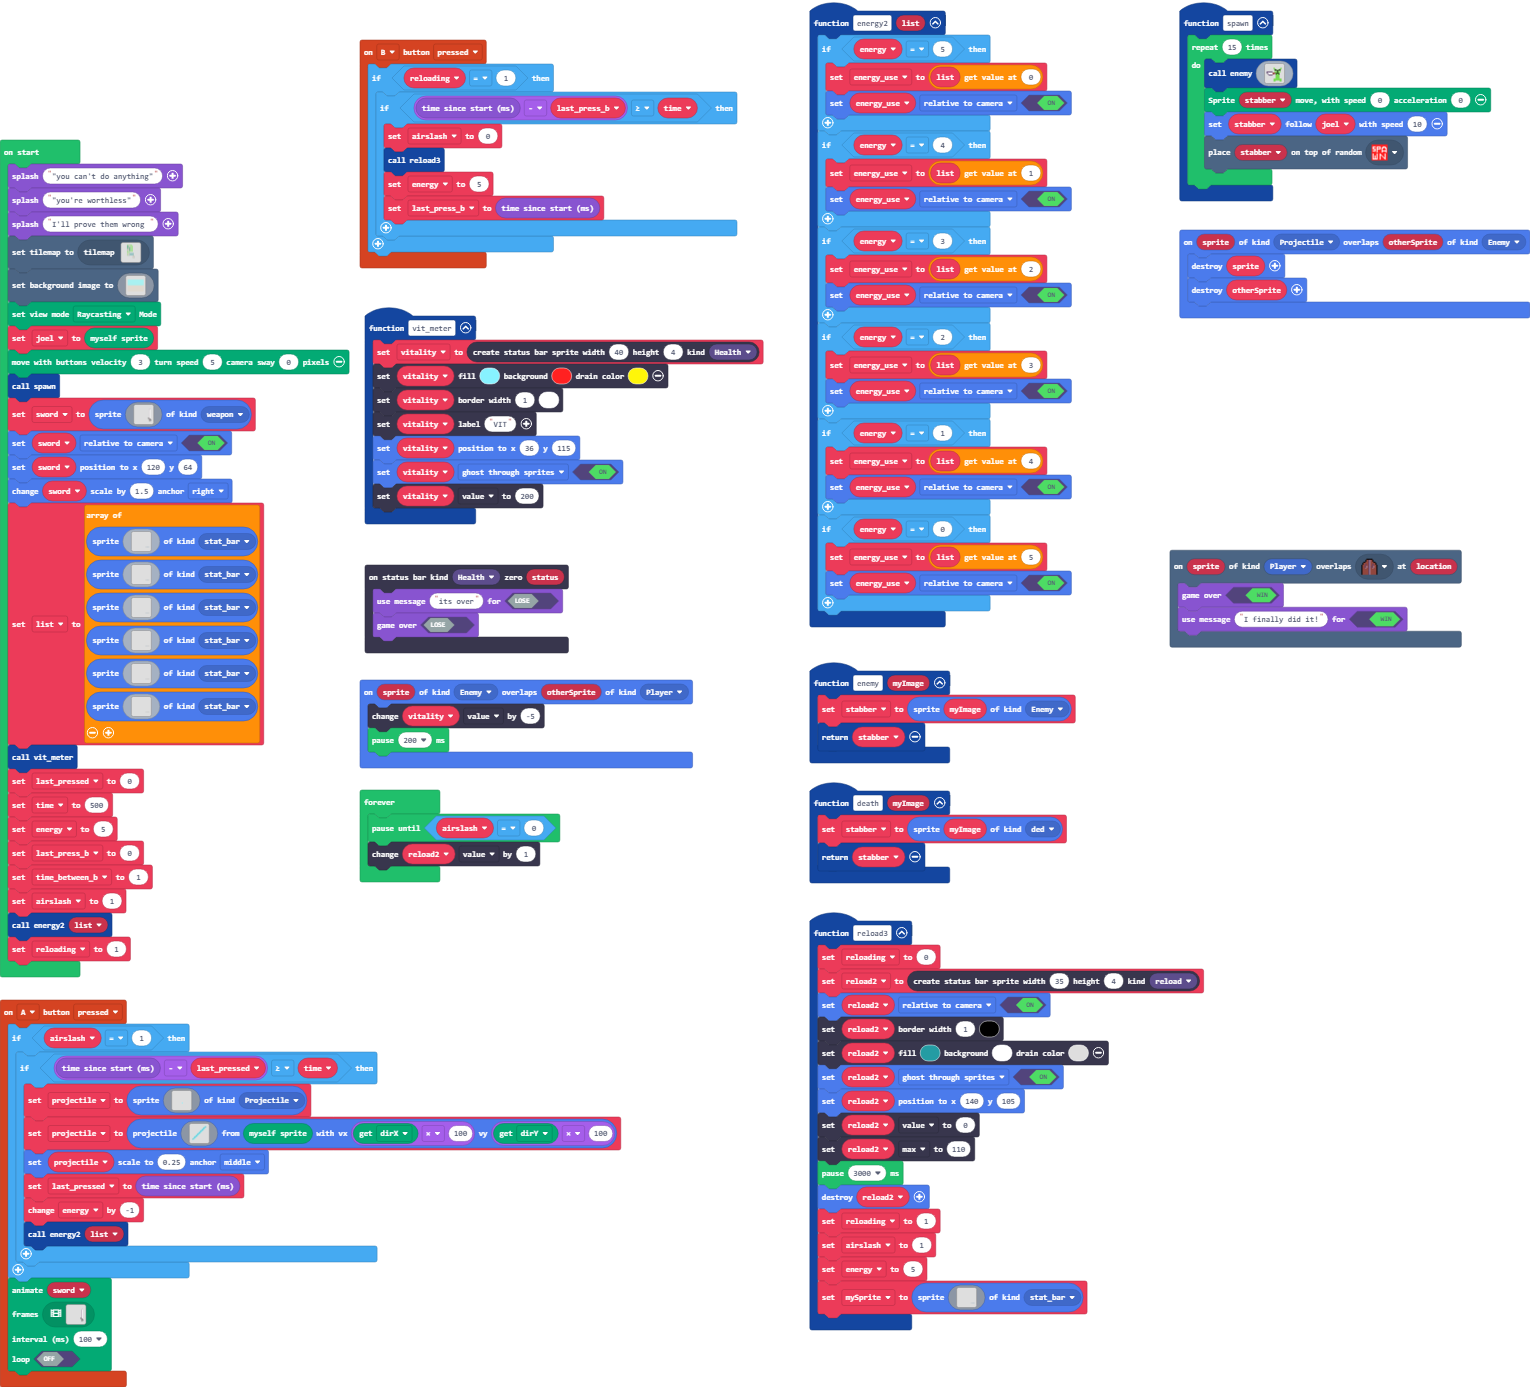
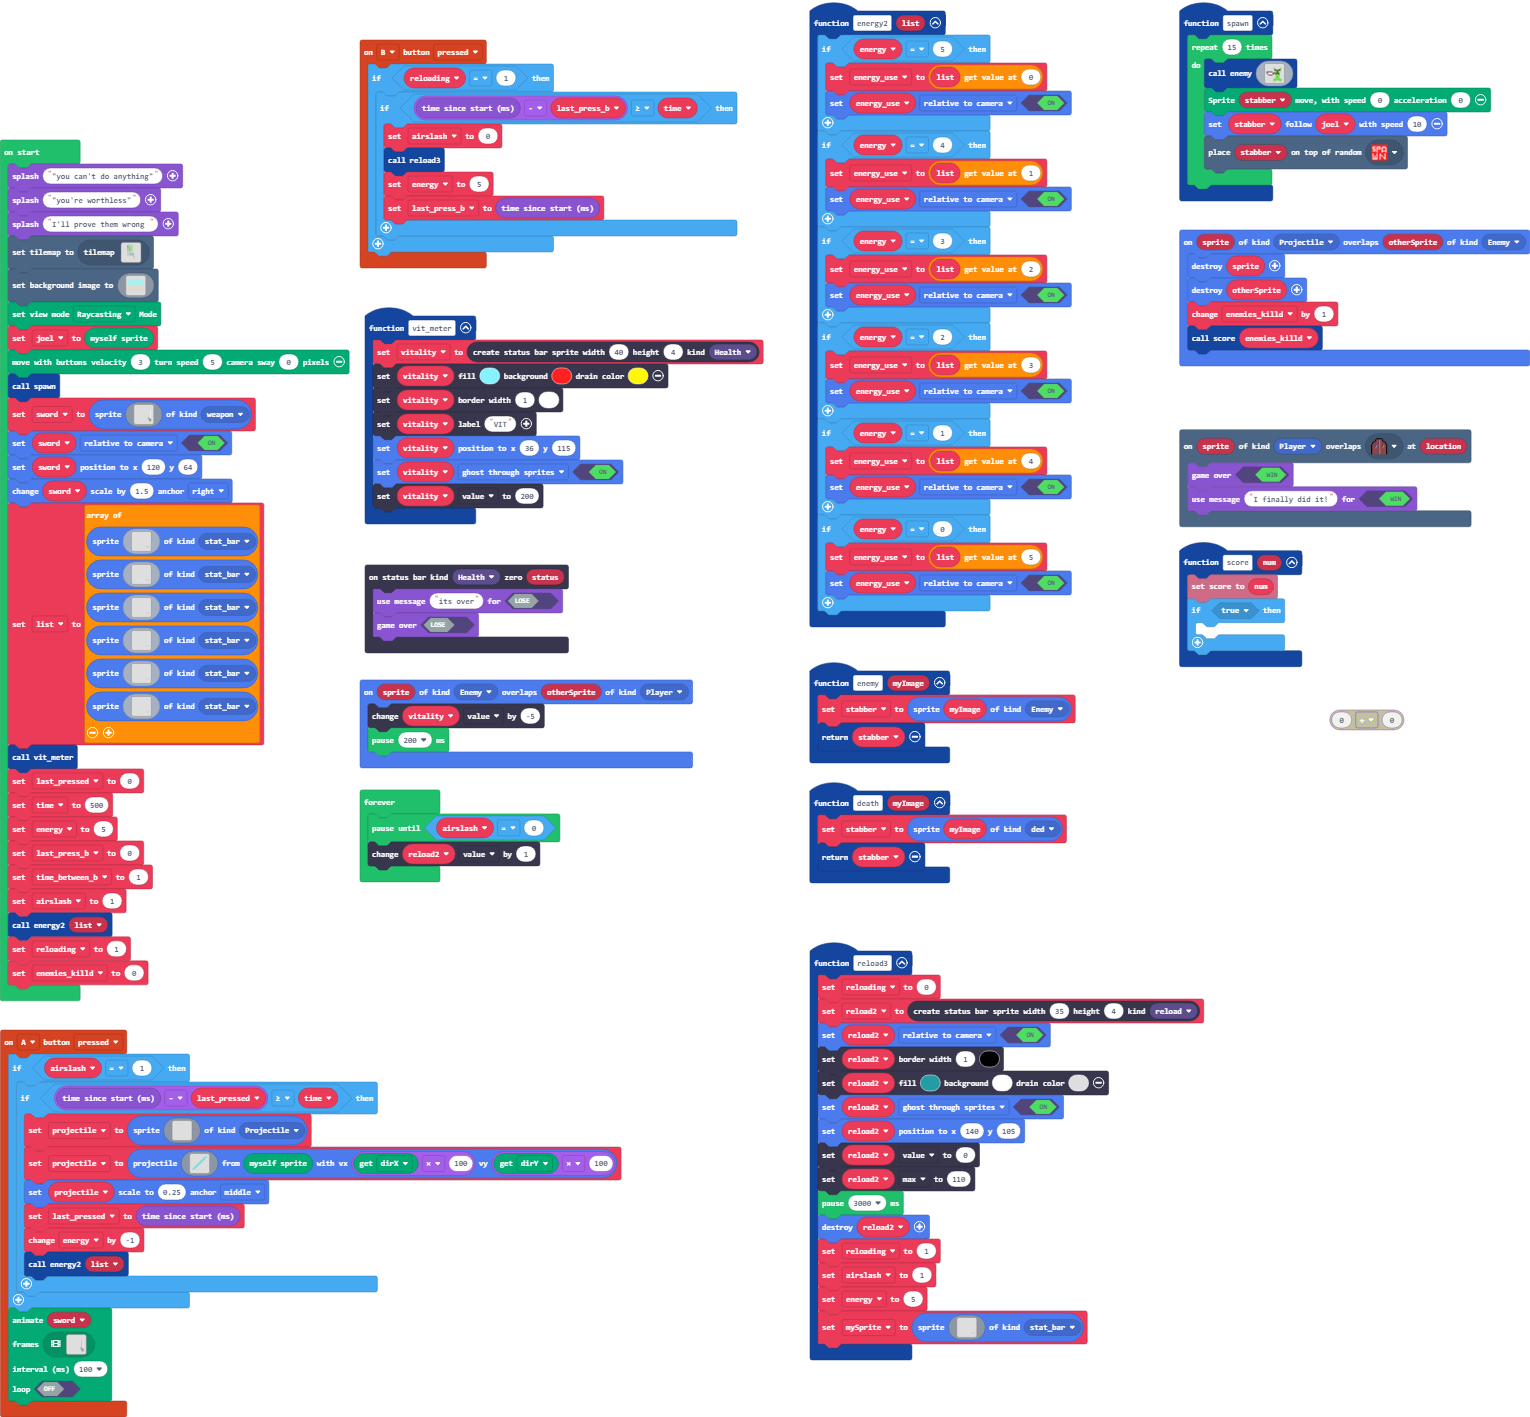
Update main.blocks, main.ts

diff --git a/main.ts b/main.ts
@@ -81,6 +81,12 @@ function death (myImage: Image) {
     stabber = sprites.create(myImage, SpriteKind.ded)
     return stabber
 }
+function score (num: number) {
+    info.setScore(num)
+    if (true) {
+    	
+    }
+}
 function vit_meter () {
     vitality = statusbars.create(40, 4, StatusBarKind.Health)
     vitality.setColor(9, 2, 5)
@@ -117,6 +123,8 @@ function spawn () {
 sprites.onOverlap(SpriteKind.Projectile, SpriteKind.Enemy, function (sprite, otherSprite) {
     sprites.destroy(sprite)
     sprites.destroy(otherSprite)
+    enemies_killd += 1
+    score(enemies_killd)
 })
 let vitality: StatusBarSprite = null
 let stabber: Sprite = null
@@ -124,6 +132,7 @@ let mySprite: Sprite = null
 let reload2: StatusBarSprite = null
 let projectile: Sprite = null
 let energy_use: Sprite = null
+let enemies_killd = 0
 let reloading = 0
 let airslash = 0
 let last_press_b = 0
@@ -163,6 +172,7 @@ let time_between_b = 1
 airslash = 1
 energy2(list)
 reloading = 1
+enemies_killd = 0
 forever(function () {
     pauseUntil(() => airslash == 0)
     reload2.value += 1
